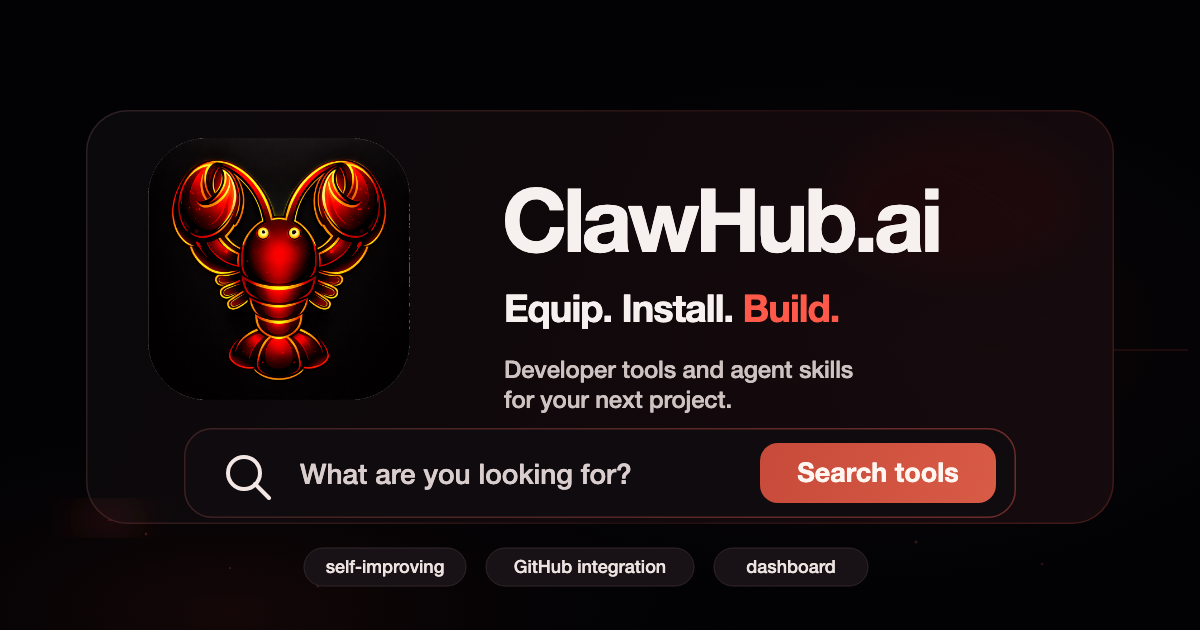
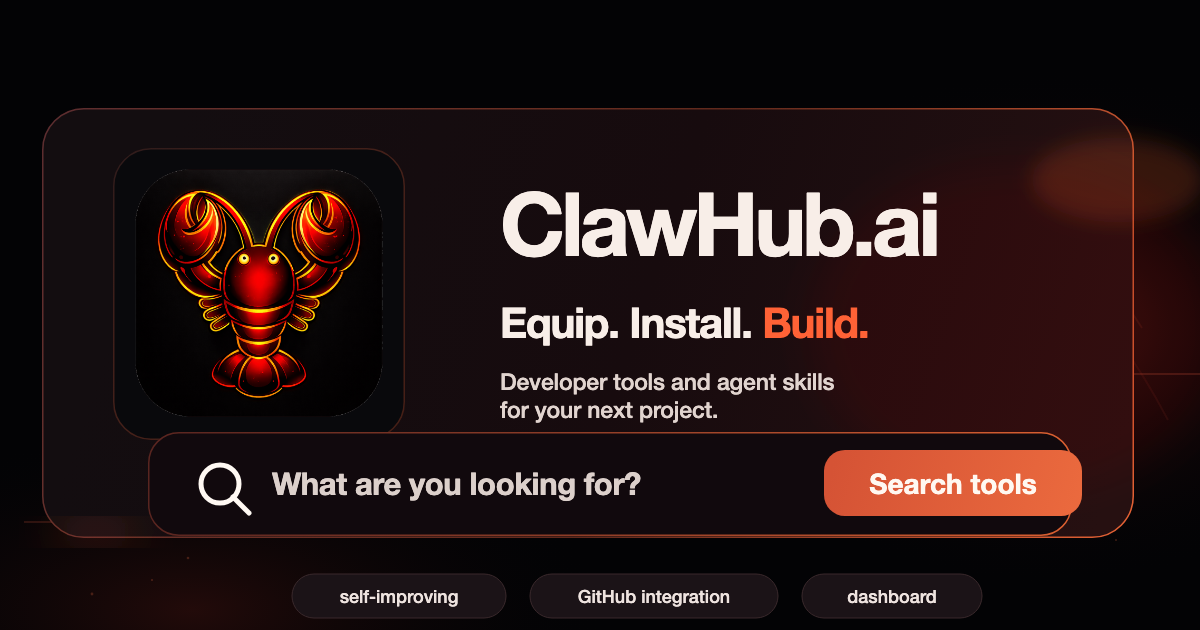
fix: align og image to new comp

diff --git a/src/routes/__root.tsx b/src/routes/__root.tsx
@@ -10,7 +10,7 @@ import Header from "../components/Header";
 import { getSiteDescription, getSiteMode, getSiteName, getSiteUrlForMode } from "../lib/site";
 import appCss from "../styles.css?url";
 
-const OG_IMAGE_VERSION = "20260420-10";
+const OG_IMAGE_VERSION = "20260420-12";
 
 export const Route = createRootRoute({
   head: () => {
